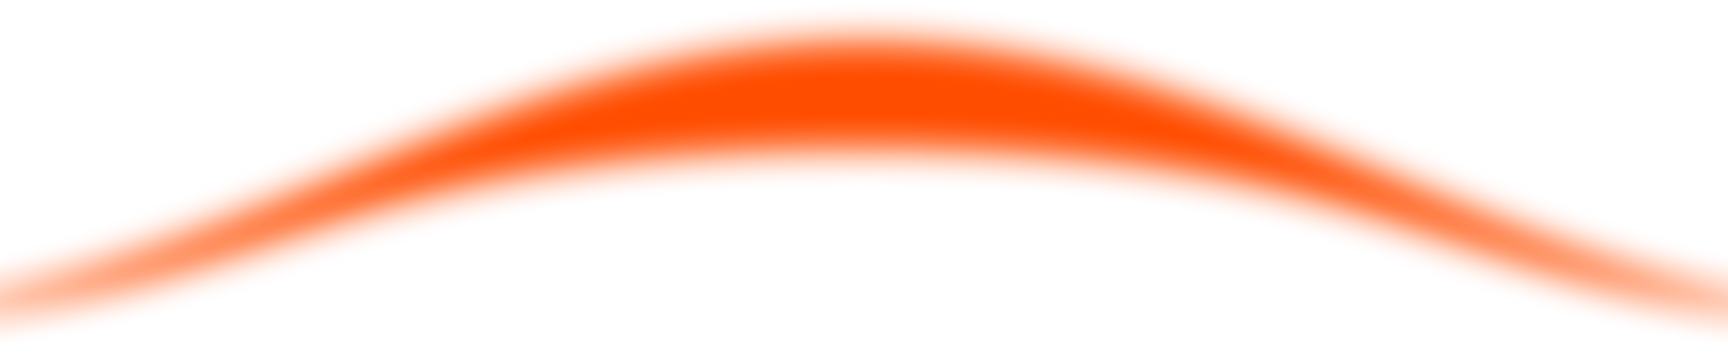
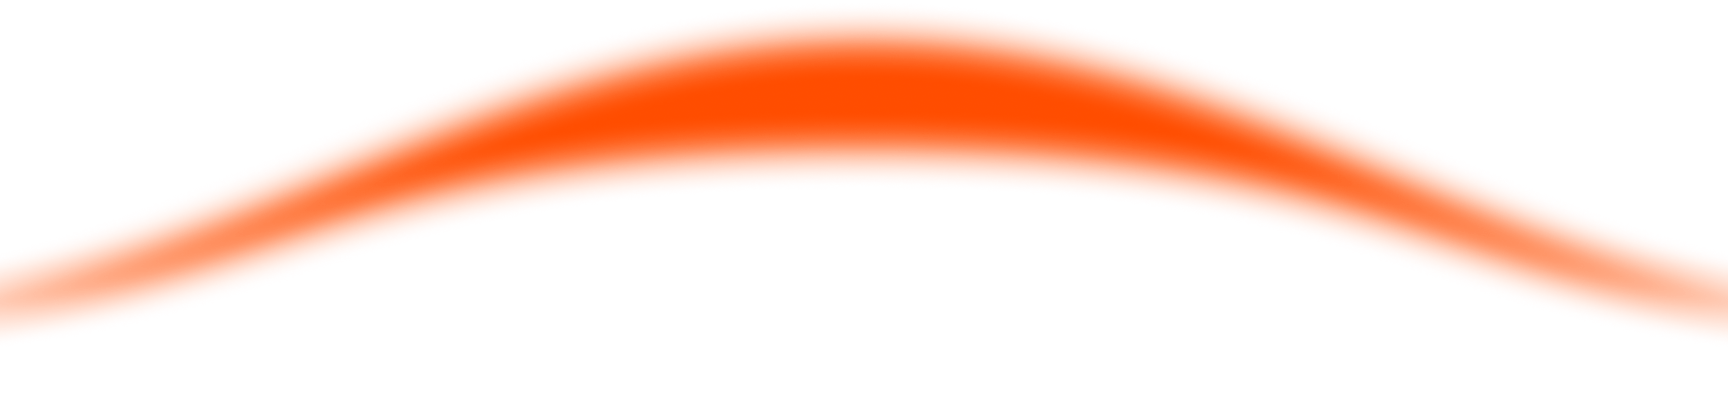
updated images/added animation

Changed region(s): [[0.0, 0.1212, 1.0, 0.9091]]

diff --git a/components/Sections/TransitionSection/TransitionSectionWrapper.tsx b/components/Sections/TransitionSection/TransitionSectionWrapper.tsx
@@ -1,35 +1,68 @@
-import React from "react";
+import React, { useState, useEffect, MutableRefObject, useRef } from "react";
+import { motion, useInView } from "framer-motion";
+import Image from "next/image";
 import { breakpoints, useBreakpoint } from "@/hooks/useBreakpoints";
 
 type Props = {};
 
 const TransitionSectionWrapper = (props: Props) => {
   const isDesktop = useBreakpoint(breakpoints.lg);
+  const [scrollProgress, setScrollProgress] = useState(0);
+
+  const handleScroll = () => {
+    const section = document.querySelector(
+      ".relative.h-screen.w-screen.pointer-events-none",
+    ) as HTMLElement;
+    const sectionTop = section.offsetTop;
+    const sectionHeight = section.offsetHeight;
+    const sectionBottom = sectionTop + sectionHeight;
+
+    const scrollPosition = window.scrollY;
+    const windowHeight = window.innerHeight;
+    const viewportCenter = windowHeight / 4;
+
+    if (
+      scrollPosition >= sectionTop &&
+      scrollPosition <= sectionBottom - viewportCenter
+    ) {
+      const scrollProgress =
+        ((scrollPosition - sectionTop) /
+          (sectionHeight - windowHeight + viewportCenter)) *
+        100;
+      setScrollProgress(scrollProgress);
+    } else if (scrollPosition < sectionTop - viewportCenter) {
+      setScrollProgress(0);
+    } else if (scrollPosition > sectionBottom - viewportCenter) {
+      setScrollProgress(200);
+    }
+  };
+
+  useEffect(() => {
+    window.addEventListener("scroll", handleScroll);
+    return () => window.removeEventListener("scroll", handleScroll);
+  }, []);
+
+  const easedScrollProgress = ease(scrollProgress);
+
+  function ease(t: number) {
+    return t * t;
+  }
 
   return (
     <section className="flex h-0 w-full items-end">
-      <div className="flex h-screen w-screen">
-        <div className="flex flex-col justify-center gap-6">
-          <div className="flex h-full">
-            <div className="h-1 w-1 bg-black"></div>
-          </div>
-
-          <div className="flex w-full flex-row items-center justify-center gap-12">
-            <div className="flex w-full flex-row">
-              <div className="h-1 w-1 bg-black"></div>
-            </div>
-
-            <div>
-              <div className="h-1 w-1 bg-black"></div>
-            </div>
-            <div className="flex w-full flex-row">
-              <div className="h-1 w-1 bg-black"></div>
-            </div>
-          </div>
-
-          <div className="flex h-full">
-            <div className="h-1 w-1 bg-black"></div>
-          </div>
+      <div className="pointer-events-none relative h-screen w-screen">
+        <div className="absolute bottom-0 left-0 h-auto w-full">
+          <Image
+            src="/transition-section/bottom.png"
+            width="0"
+            height="0"
+            sizes="100vw"
+            className="w-full"
+            style={{
+              height: `${(scrollProgress * window.innerHeight) / 200}px`,
+            }} // Adjust the height based on scrollProgress
+            alt="transition-bg"
+          />
         </div>
       </div>
     </section>
